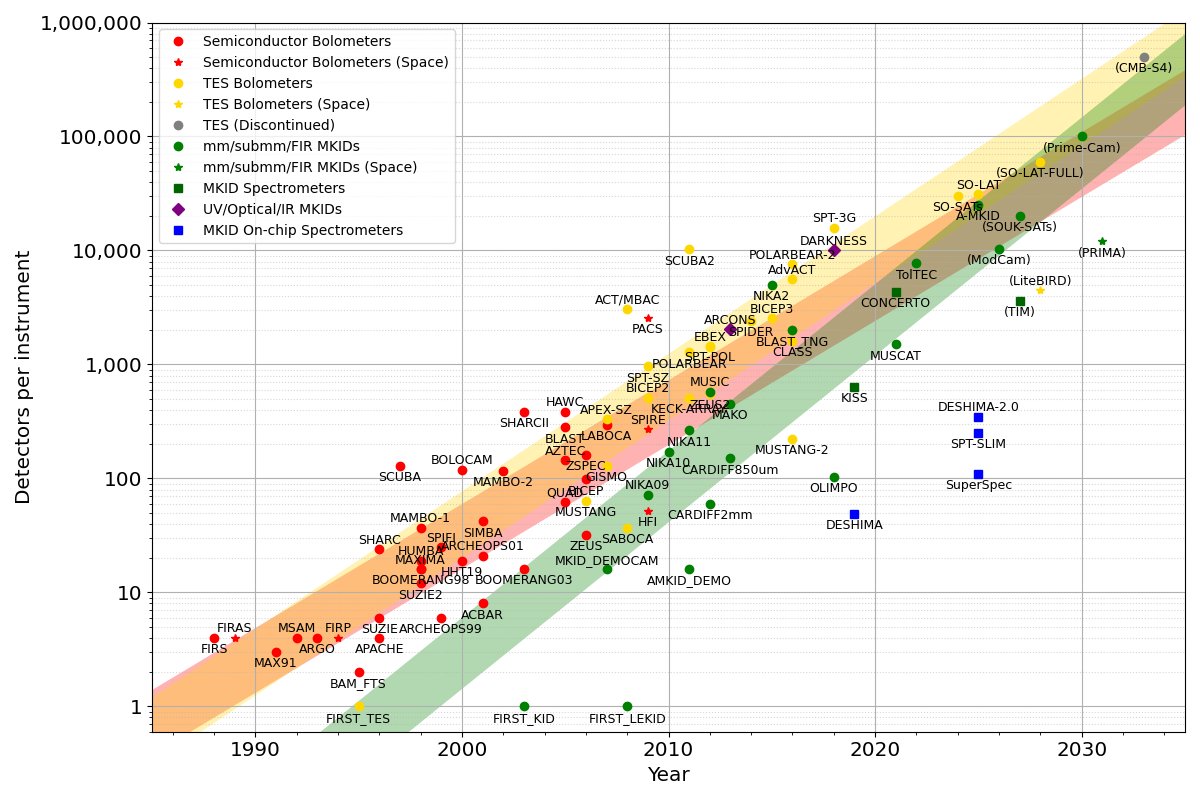
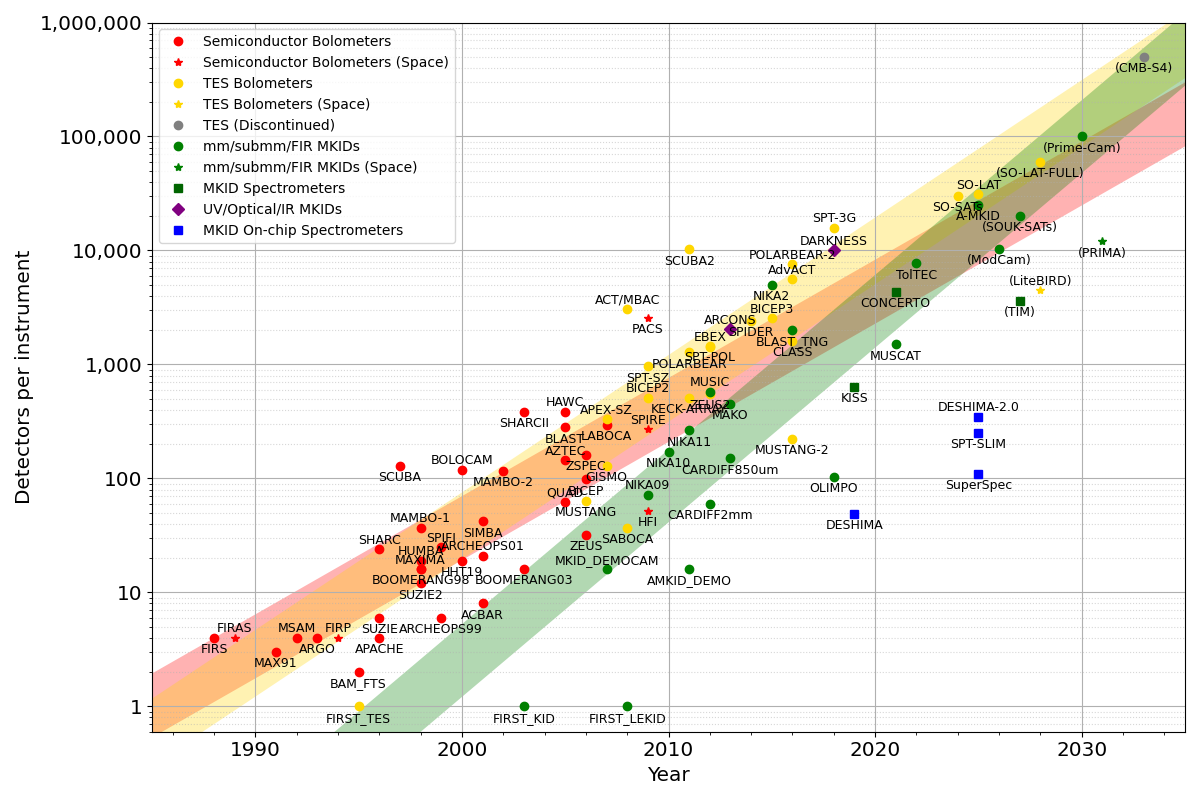
Exclude balloon- and space-based instruments from trend lines

diff --git a/instruments.py b/instruments.py
@@ -130,27 +130,28 @@ for cnt,i in enumerate(instruments):
 
 #gather data for fits to log10 of number of detectors
 # Only include instruments up to 2025 in trend lines
+# Exclude balloon- and space-based instruments from trend lines
 maxYearForTrend = 2025
 
-bolos_x = [float(i['Date']) for i in instruments if i['Detector_Type'] == 'Bolometer' and float(i['Date']) <= maxYearForTrend]
-bolos_y = [np.log10(float(i['Total_Detectors'])) for i in instruments if i['Detector_Type'] == 'Bolometer' and float(i['Date']) <= maxYearForTrend]
+bolos_x = [float(i['Date']) for i in instruments if i['Detector_Type'] == 'Bolometer' and float(i['Date']) <= maxYearForTrend and i['Platform'] not in ['Balloon', 'Space']]
+bolos_y = [np.log10(float(i['Total_Detectors'])) for i in instruments if i['Detector_Type'] == 'Bolometer' and float(i['Date']) <= maxYearForTrend and i['Platform'] not in ['Balloon', 'Space']]
 
 # TES trend excludes space-based (TES-Space) and discontinued (TES-Discontinued) instruments
-tes_x = [float(i['Date']) for i in instruments if i['Detector_Subtype'] == 'TES' and float(i['Date']) <= maxYearForTrend]
-tes_y = [np.log10(float(i['Total_Detectors'])) for i in instruments if i['Detector_Subtype'] == 'TES' and float(i['Date']) <= maxYearForTrend]
+tes_x = [float(i['Date']) for i in instruments if i['Detector_Subtype'] == 'TES' and float(i['Date']) <= maxYearForTrend and i['Platform'] not in ['Balloon', 'Space']]
+tes_y = [np.log10(float(i['Total_Detectors'])) for i in instruments if i['Detector_Subtype'] == 'TES' and float(i['Date']) <= maxYearForTrend and i['Platform'] not in ['Balloon', 'Space']]
 
-semicond_x = [float(i['Date']) for i in instruments if (i['Detector_Type'] == 'Bolometer' and i['Detector_Subtype'] not in ['TES', 'TES-Space', 'TES-Discontinued'] and float(i['Date']) <= maxYearForTrend)]
-semicond_y = [np.log10(float(i['Total_Detectors'])) for i in instruments if (i['Detector_Type'] == 'Bolometer' and i['Detector_Subtype'] not in ['TES', 'TES-Space', 'TES-Discontinued'] and float(i['Date']) <= maxYearForTrend)]
+semicond_x = [float(i['Date']) for i in instruments if (i['Detector_Type'] == 'Bolometer' and i['Detector_Subtype'] not in ['TES', 'TES-Space', 'TES-Discontinued'] and float(i['Date']) <= maxYearForTrend and i['Platform'] not in ['Balloon', 'Space'])]
+semicond_y = [np.log10(float(i['Total_Detectors'])) for i in instruments if (i['Detector_Type'] == 'Bolometer' and i['Detector_Subtype'] not in ['TES', 'TES-Space', 'TES-Discontinued'] and float(i['Date']) <= maxYearForTrend and i['Platform'] not in ['Balloon', 'Space'])]
 
 # KID trend excludes UV/optical/IR MKIDs (MKID-OIR), on-chip Spectrometer MKIDs (MKID-Spec), and future instruments
-kids_x = [float(i['Date']) for i in instruments if (i['Detector_Type'] == 'KID' and i['Detector_Subtype'] not in ['MKID-OIR', 'MKID-Spec'] and float(i['Date']) <= maxYearForTrend)]
-kids_y = [np.log10(float(i['Total_Detectors'])) for i in instruments if (i['Detector_Type'] == 'KID' and i['Detector_Subtype'] not in ['MKID-OIR', 'MKID-Spec'] and float(i['Date']) <= maxYearForTrend)]
+kids_x = [float(i['Date']) for i in instruments if (i['Detector_Type'] == 'KID' and i['Detector_Subtype'] not in ['MKID-OIR', 'MKID-Spec'] and float(i['Date']) <= maxYearForTrend and i['Platform'] not in ['Balloon', 'Space'])]
+kids_y = [np.log10(float(i['Total_Detectors'])) for i in instruments if (i['Detector_Type'] == 'KID' and i['Detector_Subtype'] not in ['MKID-OIR', 'MKID-Spec'] and float(i['Date']) <= maxYearForTrend and i['Platform'] not in ['Balloon', 'Space'])]
 
-mkids_x = [float(i['Date']) for i in instruments if i['Detector_Subtype'] in ['MKIDCAM', 'First_MKID','MKID','NIKA','LEKID'] and float(i['Date']) <= maxYearForTrend]
-mkids_y = [np.log10(float(i['Total_Detectors'])) for i in instruments if i['Detector_Subtype'] in ['MKIDCAM', 'First_MKID','MKID','NIKA','LEKID'] and float(i['Date']) <= maxYearForTrend]
+mkids_x = [float(i['Date']) for i in instruments if i['Detector_Subtype'] in ['MKIDCAM', 'First_MKID','MKID','NIKA','LEKID'] and float(i['Date']) <= maxYearForTrend and i['Platform'] not in ['Balloon', 'Space']]
+mkids_y = [np.log10(float(i['Total_Detectors'])) for i in instruments if i['Detector_Subtype'] in ['MKIDCAM', 'First_MKID','MKID','NIKA','LEKID'] and float(i['Date']) <= maxYearForTrend and i['Platform'] not in ['Balloon', 'Space']]
 
-lekids_x = [float(i['Date']) for i in instruments if i['Detector_Subtype'] in ['NIKA','KIDCAM', 'LEKID'] and float(i['Date']) <= maxYearForTrend]
-lekids_y = [np.log10(float(i['Total_Detectors'])) for i in instruments if i['Detector_Subtype'] in ['NIKA','KIDCAM','LEKID'] and float(i['Date']) <= maxYearForTrend]
+lekids_x = [float(i['Date']) for i in instruments if i['Detector_Subtype'] in ['NIKA','KIDCAM', 'LEKID'] and float(i['Date']) <= maxYearForTrend and i['Platform'] not in ['Balloon', 'Space']]
+lekids_y = [np.log10(float(i['Total_Detectors'])) for i in instruments if i['Detector_Subtype'] in ['NIKA','KIDCAM','LEKID'] and float(i['Date']) <= maxYearForTrend and i['Platform'] not in ['Balloon', 'Space']]
 
 
 #fit lines between given dates
